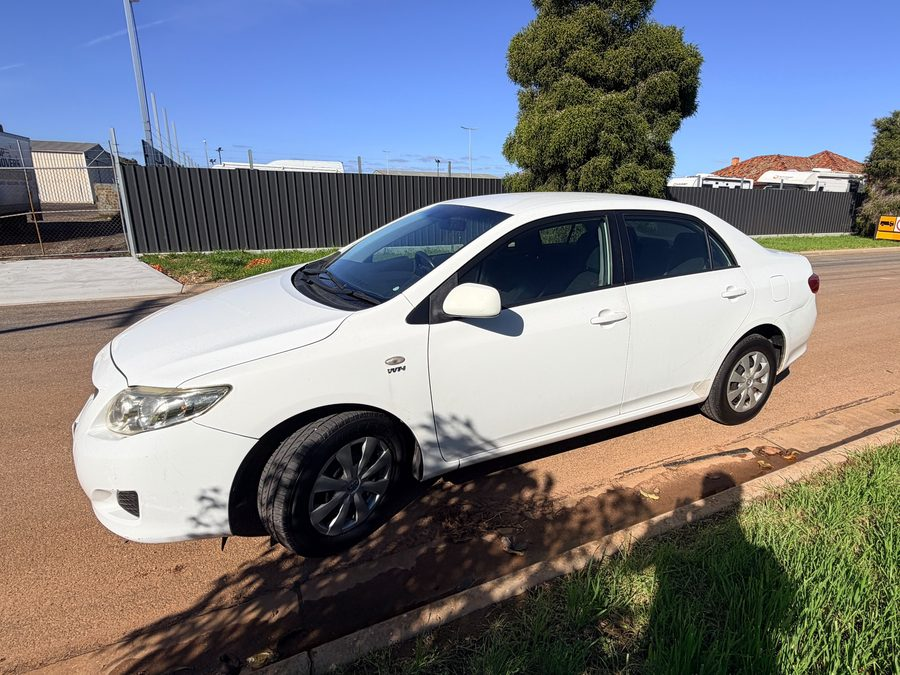
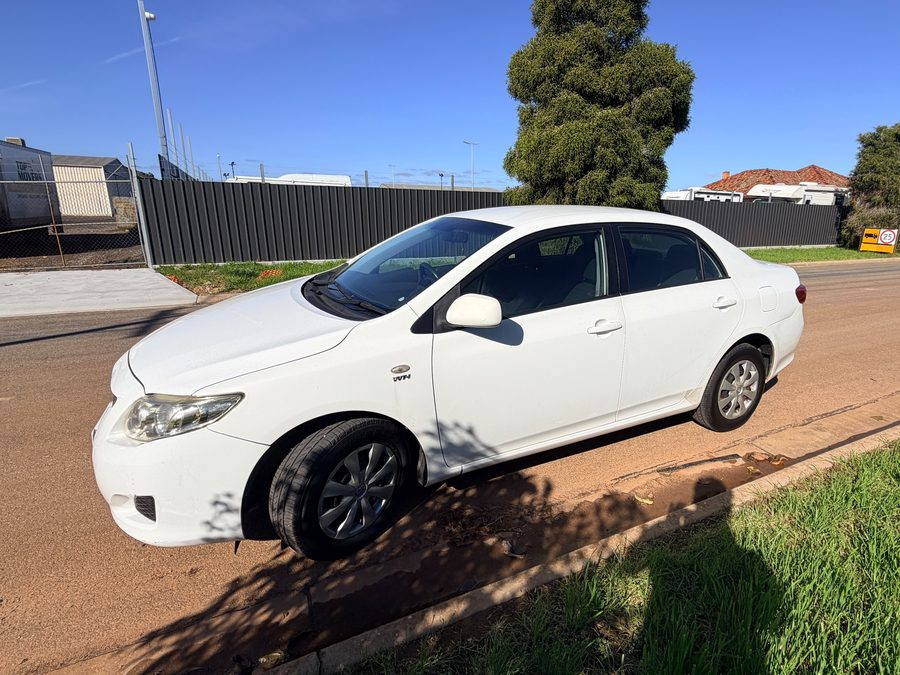
Hero (phone): original 3-line H1 back; smaller card, buttons and reviews chip; car photos zoomed out
- H1 restored to its original size/three-line wrap (owner's ruling)
- car card shrunk (214px, tiers 262/204, sideways on <=610px) and hero
  buttons + rating chip made smaller so everything still fits the real
  Safari viewport: spare 31/87/16/51px at 393x698, 440x790, 390x664, 375x548
- never below ~200px wide: at 182px the bar wraps and the details overflow
- home-stock photos rebuilt zoomed out: car bounding box + margin, smallest
  4:3 window; edge-to-edge cars get a mirrored, feathered soft extension
- Bumps assets to ?v=68 across all 12 pages

diff --git a/assets/css/styles.css b/assets/css/styles.css
@@ -1020,46 +1020,59 @@ section { padding: clamp(3.5rem, 7vw, 6rem) 0; }
 }
 /* Phone — sized for the REAL Safari viewport, not the device height. With Safari's toolbars showing,
    an iPhone 15/16 Pro gives ~698px, of which the site header takes ~89 and the fixed bottom bar ~61,
-   leaving ~547px for the whole hero. Everything below is tuned so the H1, the car card, BOTH hero
-   buttons and the Google-reviews chip are visible without scrolling (owner, 21 Sep). */
+   leaving ~547px for the whole hero. The H1 keeps its ORIGINAL three-line size (owner, 21 Sep — do not
+   shrink it); the room comes from a smaller car card and smaller buttons + reviews chip, so the H1,
+   the card, BOTH hero buttons and the Google-reviews chip are all visible without scrolling. */
 @media (max-width: 759px) {
-  .hero:has(.hstock) { padding: .85rem 0 .9rem; }
-  .hero:has(.hstock) h1 { font-size: clamp(1.5rem, 7.1vw, 1.95rem); line-height: 1.04; margin-bottom: .55rem; letter-spacing: .2px; }
+  .hero:has(.hstock) { padding: 1.15rem 0 .8rem; }
+  .hero:has(.hstock) h1 { margin-bottom: .7rem; }
   .hero:has(.hstock) h1 .text-red { white-space: nowrap; }      /* never split "ONE-" / "STOP" */
-  .hero:has(.hstock) .hero__actions { margin-top: .65rem; gap: .55rem; flex-wrap: nowrap; }
-  .hero:has(.hstock) .hero__actions .btn { flex: 1 1 0; justify-content: center; text-align: center; padding: .62rem .5rem; font-size: .9rem; white-space: nowrap; }
-  .hero:has(.hstock) .rating-chip { margin-top: .6rem; padding: .38rem .8rem; gap: .5rem; }
-  .hero:has(.hstock) .rating-chip .stars { font-size: .82rem; }
-  .hero:has(.hstock) .rating-chip strong { font-size: .98rem; }
-  .hero:has(.hstock) .rating-chip small { font-size: .74rem; }
-  .hero:has(.hstock) .rating-chip .divider { height: 16px; }
-  .hstock__bar { padding: .32rem .65rem; font-size: .62rem; }
-  .hstock__bar a { font-size: .62rem; }
-  .hstock__info { padding: .4rem .65rem .25rem; }
-  .hstock__name { font-size: .84rem; }
-  .hstock__price { font-size: 1.18rem; }
-  .hstock__cta { margin: .05rem .65rem .5rem; padding: .42rem .6rem; font-size: .74rem; }
-  .hstock__nav { width: 28px; height: 28px; }
+  .hero:has(.hstock) .hero__actions { margin-top: .6rem; gap: .5rem; flex-wrap: nowrap; }
+  .hero:has(.hstock) .hero__actions .btn { flex: 1 1 0; justify-content: center; text-align: center; padding: .5rem .4rem; font-size: .82rem; white-space: nowrap; }
+  .hero:has(.hstock) .rating-chip { margin-top: .5rem; padding: .28rem .7rem; gap: .45rem; }
+  .hero:has(.hstock) .rating-chip .stars { font-size: .72rem; letter-spacing: .5px; }
+  .hero:has(.hstock) .rating-chip strong { font-size: .86rem; }
+  .hero:has(.hstock) .rating-chip small { font-size: .68rem; }
+  .hero:has(.hstock) .rating-chip .divider { height: 14px; }
+  .hstock { --hs-w: 214px; }
+  .hstock__bar { padding: .28rem .55rem; font-size: .56rem; gap: .4rem; white-space: nowrap; }
+  .hstock__bar a { font-size: .56rem; }
+  .hstock__badge { font-size: .5rem; padding: .18rem .4rem; top: .35rem; left: .35rem; }
+  .hstock__info { padding: .35rem .55rem .2rem; gap: .4rem; }
+  .hstock__name { font-size: .78rem; }
+  .hstock__meta { font-size: .62rem; gap: .25rem; }
+  .hstock__meta em { font-size: .54rem; }
+  .hstock__price { font-size: 1.05rem; }
+  .hstock__cta { margin: .05rem .55rem .45rem; padding: .36rem .5rem; font-size: .7rem; }
+  .hstock__nav { width: 26px; height: 26px; }
+  .hstock__nav svg { width: 14px; height: 14px; }
+  .hstock__dots i { width: 4px; height: 4px; }
 }
 /* Height tiers — the card scales with the room the phone actually has. */
-@media (max-width: 759px) and (min-height: 760px) { .hstock { --hs-w: 304px; } }     /* Pro Max / Plus */
-@media (max-width: 759px) and (max-height: 690px) { .hstock { --hs-w: 248px; } }     /* iPhone 13/14 class */
-/* Short phones (iPhone SE / mini with toolbars showing, ~550px): a stacked card cannot fit, so the
-   card turns sideways — photo left, details + Enquire right — which is ~150px shorter. */
+@media (max-width: 759px) and (min-height: 760px) { .hstock { --hs-w: 262px; } }     /* Pro Max / Plus */
+/* iPhone 13/14 class (~664px). Do NOT go narrower than ~200px: at 182px the red bar wraps to two
+   lines and the details row overflows the card. Recover the height from spacing instead. */
+@media (max-width: 759px) and (max-height: 690px) {
+  .hstock { --hs-w: 204px; }
+  .hero:has(.hstock) { padding-top: .65rem; }
+  .hero:has(.hstock) h1 { margin-bottom: .5rem; }
+}
+/* Short phones (iPhone SE / mini with toolbars showing, ~550px): a stacked card cannot fit under a
+   three-line H1, so the card turns sideways — photo left, details + Enquire right. */
 @media (max-width: 759px) and (max-height: 610px) {
-  .hstock { --hs-w: 330px; --hs-ph: 108px; }
-  .hero:has(.hstock) h1 { font-size: clamp(1.35rem, 6.4vw, 1.7rem); margin-bottom: .45rem; }
-  .hstock__car { display: grid; grid-template-columns: 136px 1fr; grid-template-rows: 1fr auto; }
+  .hstock { --hs-w: 318px; --hs-ph: 96px; }
+  .hero:has(.hstock) { padding-top: .8rem; }
+  .hero:has(.hstock) h1 { font-size: 2.05rem; margin-bottom: .5rem; }
+  .hstock__car { display: grid; grid-template-columns: 128px 1fr; grid-template-rows: 1fr auto; }
   .hstock__media { grid-row: 1 / span 2; }
-  .hstock__media img { width: 136px; height: var(--hs-ph); aspect-ratio: auto; }
-  .hstock__info { flex-direction: column; align-items: flex-start; gap: .1rem; padding: .4rem .6rem .1rem; }
-  .hstock__cta { margin: .15rem .6rem .45rem; }
-  .hstock__badge { font-size: .5rem; padding: .18rem .38rem; top: .3rem; left: .3rem; }
-  .hstock__nav { width: 24px; height: 24px; }
-  .hstock__nav svg { width: 13px; height: 13px; }
-  .hstock__nav--prev { left: 4px; }
-  .hstock__nav--next { left: 108px; right: auto; }      /* both arrows sit on the photo, clear of the price + button */
-  .hstock__dots { right: auto; width: 136px; top: calc(var(--hs-ph) - 12px); }
+  .hstock__media img { width: 128px; height: var(--hs-ph); aspect-ratio: auto; }
+  .hstock__info { flex-direction: column; align-items: flex-start; gap: .05rem; padding: .3rem .55rem .05rem; }
+  .hstock__cta { margin: .1rem .55rem .4rem; }
+  .hstock__nav { width: 22px; height: 22px; }
+  .hstock__nav svg { width: 12px; height: 12px; }
+  .hstock__nav--prev { left: 3px; }
+  .hstock__nav--next { left: 103px; right: auto; }      /* both arrows sit on the photo, clear of the price + button */
+  .hstock__dots { right: auto; width: 128px; top: calc(var(--hs-ph) - 10px); }
 }
 /* ---------- Frosted-glass hero buttons (owner, 21 Sep) ----------
    Scoped to the hero only — these sit over the photograph, so the blur has something to frost.

diff --git a/detailings.html b/detailings.html
@@ -13,7 +13,7 @@
 <link rel="preconnect" href="https://fonts.googleapis.com" />
 <link rel="preconnect" href="https://fonts.gstatic.com" crossorigin />
 <link href="https://fonts.googleapis.com/css2?family=Anton&family=Inter:wght@400;500;600;700;800&display=swap" rel="stylesheet" />
-<link rel="stylesheet" href="assets/css/styles.css?v=67" />
+<link rel="stylesheet" href="assets/css/styles.css?v=68" />
 <script type="application/ld+json">
 {
   "@context": "https://schema.org",
@@ -320,6 +320,6 @@
 
 <a class="wa-float" href="https://wa.me/61432520230?text=Hi%20Jitty%2C%20I%20would%20like%20to%20book%20my%20car%20in." aria-label="Message us on WhatsApp"><svg viewBox="0 0 24 24" fill="currentColor"><path d="M12 2a10 10 0 0 0-8.5 15.3L2 22l4.8-1.5A10 10 0 1 0 12 2zm0 18a8 8 0 0 1-4.1-1.1l-.3-.2-2.8.9.9-2.7-.2-.3A8 8 0 1 1 12 20z"/></svg></a>
 <nav class="mobile-bar" aria-label="Quick actions"><a class="call" href="tel:+61432520230"><svg viewBox="0 0 24 24" fill="none" stroke="currentColor" stroke-width="2"><path d="M22 16.92v3a2 2 0 0 1-2.18 2 19.79 19.79 0 0 1-8.63-3.07 19.5 19.5 0 0 1-6-6 19.79 19.79 0 0 1-3.07-8.67A2 2 0 0 1 4.11 2h3a2 2 0 0 1 2 1.72c.13.96.36 1.9.7 2.81a2 2 0 0 1-.45 2.11L8.09 9.91a16 16 0 0 0 6 6l1.27-1.27a2 2 0 0 1 2.11-.45c.9.34 1.85.57 2.81.7A2 2 0 0 1 22 16.92z"/></svg>Call Now</a><a href="https://wa.me/61432520230?text=Hi%20Jitty%2C%20I%20would%20like%20to%20book%20my%20car%20in."><svg viewBox="0 0 24 24" fill="currentColor"><path d="M12 2a10 10 0 0 0-8.5 15.3L2 22l4.8-1.5A10 10 0 1 0 12 2z"/></svg>WhatsApp</a><a class="book" href="https://wa.me/61432520230?text=Hi%20Jitty%2C%20I%20would%20like%20to%20book%20my%20car%20in."><svg viewBox="0 0 24 24" fill="none" stroke="currentColor" stroke-width="2"><rect x="3" y="4" width="18" height="18" rx="2"/><path d="M16 2v4M8 2v4M3 10h18"/></svg>Book</a></nav>
-<script src="assets/js/main.js?v=67"></script>
+<script src="assets/js/main.js?v=68"></script>
 </body>
 </html>

diff --git a/paint-panel.html b/paint-panel.html
@@ -13,7 +13,7 @@
 <link rel="preconnect" href="https://fonts.googleapis.com" />
 <link rel="preconnect" href="https://fonts.gstatic.com" crossorigin />
 <link href="https://fonts.googleapis.com/css2?family=Anton&family=Inter:wght@400;500;600;700;800&display=swap" rel="stylesheet" />
-<link rel="stylesheet" href="assets/css/styles.css?v=67" />
+<link rel="stylesheet" href="assets/css/styles.css?v=68" />
 <script type="application/ld+json">
 {
   "@context": "https://schema.org",
@@ -300,6 +300,6 @@
 
 <a class="wa-float" href="https://wa.me/61432520230?text=Hi%20Jitty%2C%20I%20would%20like%20to%20book%20my%20car%20in." aria-label="Message us on WhatsApp"><svg viewBox="0 0 24 24" fill="currentColor"><path d="M12 2a10 10 0 0 0-8.5 15.3L2 22l4.8-1.5A10 10 0 1 0 12 2zm0 18a8 8 0 0 1-4.1-1.1l-.3-.2-2.8.9.9-2.7-.2-.3A8 8 0 1 1 12 20z"/></svg></a>
 <nav class="mobile-bar" aria-label="Quick actions"><a class="call" href="tel:+61432520230"><svg viewBox="0 0 24 24" fill="none" stroke="currentColor" stroke-width="2"><path d="M22 16.92v3a2 2 0 0 1-2.18 2 19.79 19.79 0 0 1-8.63-3.07 19.5 19.5 0 0 1-6-6 19.79 19.79 0 0 1-3.07-8.67A2 2 0 0 1 4.11 2h3a2 2 0 0 1 2 1.72c.13.96.36 1.9.7 2.81a2 2 0 0 1-.45 2.11L8.09 9.91a16 16 0 0 0 6 6l1.27-1.27a2 2 0 0 1 2.11-.45c.9.34 1.85.57 2.81.7A2 2 0 0 1 22 16.92z"/></svg>Call Now</a><a href="https://wa.me/61432520230?text=Hi%20Jitty%2C%20I%20would%20like%20to%20book%20my%20car%20in."><svg viewBox="0 0 24 24" fill="currentColor"><path d="M12 2a10 10 0 0 0-8.5 15.3L2 22l4.8-1.5A10 10 0 1 0 12 2z"/></svg>WhatsApp</a><a class="book" href="https://wa.me/61432520230?text=Hi%20Jitty%2C%20I%20would%20like%20to%20book%20my%20car%20in."><svg viewBox="0 0 24 24" fill="none" stroke="currentColor" stroke-width="2"><rect x="3" y="4" width="18" height="18" rx="2"/><path d="M16 2v4M8 2v4M3 10h18"/></svg>Book</a></nav>
-<script src="assets/js/main.js?v=67"></script>
+<script src="assets/js/main.js?v=68"></script>
 </body>
 </html>

diff --git a/services.html b/services.html
@@ -13,7 +13,7 @@
 <link rel="preconnect" href="https://fonts.googleapis.com" />
 <link rel="preconnect" href="https://fonts.gstatic.com" crossorigin />
 <link href="https://fonts.googleapis.com/css2?family=Anton&family=Inter:wght@400;500;600;700;800&display=swap" rel="stylesheet" />
-<link rel="stylesheet" href="assets/css/styles.css?v=67" />
+<link rel="stylesheet" href="assets/css/styles.css?v=68" />
 <script type="application/ld+json">
 {
   "@context": "https://schema.org",
@@ -527,6 +527,6 @@
 
 <a class="wa-float" href="https://wa.me/61432520230?text=Hi%20Jitty%2C%20I%20would%20like%20to%20book%20my%20car%20in." aria-label="Message us on WhatsApp"><svg viewBox="0 0 24 24" fill="currentColor"><path d="M12 2a10 10 0 0 0-8.5 15.3L2 22l4.8-1.5A10 10 0 1 0 12 2zm0 18a8 8 0 0 1-4.1-1.1l-.3-.2-2.8.9.9-2.7-.2-.3A8 8 0 1 1 12 20z"/></svg></a>
 <nav class="mobile-bar" aria-label="Quick actions"><a class="call" href="tel:+61432520230"><svg viewBox="0 0 24 24" fill="none" stroke="currentColor" stroke-width="2"><path d="M22 16.92v3a2 2 0 0 1-2.18 2 19.79 19.79 0 0 1-8.63-3.07 19.5 19.5 0 0 1-6-6 19.79 19.79 0 0 1-3.07-8.67A2 2 0 0 1 4.11 2h3a2 2 0 0 1 2 1.72c.13.96.36 1.9.7 2.81a2 2 0 0 1-.45 2.11L8.09 9.91a16 16 0 0 0 6 6l1.27-1.27a2 2 0 0 1 2.11-.45c.9.34 1.85.57 2.81.7A2 2 0 0 1 22 16.92z"/></svg>Call Now</a><a href="https://wa.me/61432520230?text=Hi%20Jitty%2C%20I%20would%20like%20to%20book%20my%20car%20in."><svg viewBox="0 0 24 24" fill="currentColor"><path d="M12 2a10 10 0 0 0-8.5 15.3L2 22l4.8-1.5A10 10 0 1 0 12 2z"/></svg>WhatsApp</a><a class="book" href="https://wa.me/61432520230?text=Hi%20Jitty%2C%20I%20would%20like%20to%20book%20my%20car%20in."><svg viewBox="0 0 24 24" fill="none" stroke="currentColor" stroke-width="2"><rect x="3" y="4" width="18" height="18" rx="2"/><path d="M16 2v4M8 2v4M3 10h18"/></svg>Book</a></nav>
-<script src="assets/js/main.js?v=67"></script>
+<script src="assets/js/main.js?v=68"></script>
 </body>
 </html>

diff --git a/used-cars.html b/used-cars.html
@@ -13,7 +13,7 @@
 <link rel="preconnect" href="https://fonts.googleapis.com" />
 <link rel="preconnect" href="https://fonts.gstatic.com" crossorigin />
 <link href="https://fonts.googleapis.com/css2?family=Anton&family=Inter:wght@400;500;600;700;800&display=swap" rel="stylesheet" />
-<link rel="stylesheet" href="assets/css/styles.css?v=67" />
+<link rel="stylesheet" href="assets/css/styles.css?v=68" />
 <script type="application/ld+json">
 {
   "@context": "https://schema.org",
@@ -558,6 +558,6 @@
 
 <a class="wa-float" href="https://wa.me/61432520230?text=Hi%20Jitty%2C%20I%20would%20like%20to%20book%20my%20car%20in." aria-label="Message us on WhatsApp"><svg viewBox="0 0 24 24" fill="currentColor"><path d="M12 2a10 10 0 0 0-8.5 15.3L2 22l4.8-1.5A10 10 0 1 0 12 2zm0 18a8 8 0 0 1-4.1-1.1l-.3-.2-2.8.9.9-2.7-.2-.3A8 8 0 1 1 12 20z"/></svg></a>
 <nav class="mobile-bar" aria-label="Quick actions"><a class="call" href="tel:+61432520230"><svg viewBox="0 0 24 24" fill="none" stroke="currentColor" stroke-width="2"><path d="M22 16.92v3a2 2 0 0 1-2.18 2 19.79 19.79 0 0 1-8.63-3.07 19.5 19.5 0 0 1-6-6 19.79 19.79 0 0 1-3.07-8.67A2 2 0 0 1 4.11 2h3a2 2 0 0 1 2 1.72c.13.96.36 1.9.7 2.81a2 2 0 0 1-.45 2.11L8.09 9.91a16 16 0 0 0 6 6l1.27-1.27a2 2 0 0 1 2.11-.45c.9.34 1.85.57 2.81.7A2 2 0 0 1 22 16.92z"/></svg>Call Now</a><a href="https://wa.me/61432520230?text=Hi%20Jitty%2C%20I%20would%20like%20to%20book%20my%20car%20in."><svg viewBox="0 0 24 24" fill="currentColor"><path d="M12 2a10 10 0 0 0-8.5 15.3L2 22l4.8-1.5A10 10 0 1 0 12 2z"/></svg>WhatsApp</a><a class="book" href="https://wa.me/61432520230?text=Hi%20Jitty%2C%20I%20would%20like%20to%20book%20my%20car%20in."><svg viewBox="0 0 24 24" fill="none" stroke="currentColor" stroke-width="2"><rect x="3" y="4" width="18" height="18" rx="2"/><path d="M16 2v4M8 2v4M3 10h18"/></svg>Book</a></nav>
-<script src="assets/js/main.js?v=67"></script>
+<script src="assets/js/main.js?v=68"></script>
 </body>
 </html>

diff --git a/services/4wd-service.html b/services/4wd-service.html
@@ -13,7 +13,7 @@
 <link rel="preconnect" href="https://fonts.googleapis.com" />
 <link rel="preconnect" href="https://fonts.gstatic.com" crossorigin />
 <link href="https://fonts.googleapis.com/css2?family=Anton&family=Inter:wght@400;500;600;700;800&display=swap" rel="stylesheet" />
-<link rel="stylesheet" href="../assets/css/styles.css?v=67" />
+<link rel="stylesheet" href="../assets/css/styles.css?v=68" />
 <script type="application/ld+json">
 {
   "@context":"https://schema.org","@type":"Service",
@@ -104,6 +104,6 @@
 </footer>
 <a class="wa-float" href="https://wa.me/61432520230?text=Hi%20Jitty%2C%20I%20would%20like%20to%20book%20my%20car%20in." aria-label="Message us on WhatsApp"><svg viewBox="0 0 24 24" fill="currentColor"><path d="M12 2a10 10 0 0 0-8.5 15.3L2 22l4.8-1.5A10 10 0 1 0 12 2zm0 18a8 8 0 0 1-4.1-1.1l-.3-.2-2.8.9.9-2.7-.2-.3A8 8 0 1 1 12 20z"/></svg></a>
 <nav class="mobile-bar" aria-label="Quick actions"><a class="call" href="tel:+61432520230"><svg viewBox="0 0 24 24" fill="none" stroke="currentColor" stroke-width="2"><path d="M22 16.92v3a2 2 0 0 1-2.18 2 19.79 19.79 0 0 1-8.63-3.07 19.5 19.5 0 0 1-6-6 19.79 19.79 0 0 1-3.07-8.67A2 2 0 0 1 4.11 2h3a2 2 0 0 1 2 1.72c.13.96.36 1.9.7 2.81a2 2 0 0 1-.45 2.11L8.09 9.91a16 16 0 0 0 6 6l1.27-1.27a2 2 0 0 1 2.11-.45c.9.34 1.85.57 2.81.7A2 2 0 0 1 22 16.92z"/></svg>Call</a><a href="https://wa.me/61432520230?text=Hi%20Jitty%2C%20I%20would%20like%20to%20book%20my%20car%20in."><svg viewBox="0 0 24 24" fill="currentColor"><path d="M12 2a10 10 0 0 0-8.5 15.3L2 22l4.8-1.5A10 10 0 1 0 12 2z"/></svg>WhatsApp</a><a class="book" href="../contact.html#book"><svg viewBox="0 0 24 24" fill="none" stroke="currentColor" stroke-width="2"><rect x="3" y="4" width="18" height="18" rx="2"/><path d="M16 2v4M8 2v4M3 10h18"/></svg>Book</a></nav>
-<script src="../assets/js/main.js?v=67"></script>
+<script src="../assets/js/main.js?v=68"></script>
 </body>
 </html>

diff --git a/services/air-conditioning.html b/services/air-conditioning.html
@@ -13,7 +13,7 @@
 <link rel="preconnect" href="https://fonts.googleapis.com" />
 <link rel="preconnect" href="https://fonts.gstatic.com" crossorigin />
 <link href="https://fonts.googleapis.com/css2?family=Anton&family=Inter:wght@400;500;600;700;800&display=swap" rel="stylesheet" />
-<link rel="stylesheet" href="../assets/css/styles.css?v=67" />
+<link rel="stylesheet" href="../assets/css/styles.css?v=68" />
 <script type="application/ld+json">
 {
   "@context":"https://schema.org","@type":"Service",
@@ -104,6 +104,6 @@
 </footer>
 <a class="wa-float" href="https://wa.me/61432520230?text=Hi%20Jitty%2C%20I%20would%20like%20to%20book%20my%20car%20in." aria-label="Message us on WhatsApp"><svg viewBox="0 0 24 24" fill="currentColor"><path d="M12 2a10 10 0 0 0-8.5 15.3L2 22l4.8-1.5A10 10 0 1 0 12 2zm0 18a8 8 0 0 1-4.1-1.1l-.3-.2-2.8.9.9-2.7-.2-.3A8 8 0 1 1 12 20z"/></svg></a>
 <nav class="mobile-bar" aria-label="Quick actions"><a class="call" href="tel:+61432520230"><svg viewBox="0 0 24 24" fill="none" stroke="currentColor" stroke-width="2"><path d="M22 16.92v3a2 2 0 0 1-2.18 2 19.79 19.79 0 0 1-8.63-3.07 19.5 19.5 0 0 1-6-6 19.79 19.79 0 0 1-3.07-8.67A2 2 0 0 1 4.11 2h3a2 2 0 0 1 2 1.72c.13.96.36 1.9.7 2.81a2 2 0 0 1-.45 2.11L8.09 9.91a16 16 0 0 0 6 6l1.27-1.27a2 2 0 0 1 2.11-.45c.9.34 1.85.57 2.81.7A2 2 0 0 1 22 16.92z"/></svg>Call</a><a href="https://wa.me/61432520230?text=Hi%20Jitty%2C%20I%20would%20like%20to%20book%20my%20car%20in."><svg viewBox="0 0 24 24" fill="currentColor"><path d="M12 2a10 10 0 0 0-8.5 15.3L2 22l4.8-1.5A10 10 0 1 0 12 2z"/></svg>WhatsApp</a><a class="book" href="../contact.html#book"><svg viewBox="0 0 24 24" fill="none" stroke="currentColor" stroke-width="2"><rect x="3" y="4" width="18" height="18" rx="2"/><path d="M16 2v4M8 2v4M3 10h18"/></svg>Book</a></nav>
-<script src="../assets/js/main.js?v=67"></script>
+<script src="../assets/js/main.js?v=68"></script>
 </body>
 </html>

diff --git a/services/brakes-suspension.html b/services/brakes-suspension.html
@@ -13,7 +13,7 @@
 <link rel="preconnect" href="https://fonts.googleapis.com" />
 <link rel="preconnect" href="https://fonts.gstatic.com" crossorigin />
 <link href="https://fonts.googleapis.com/css2?family=Anton&family=Inter:wght@400;500;600;700;800&display=swap" rel="stylesheet" />
-<link rel="stylesheet" href="../assets/css/styles.css?v=67" />
+<link rel="stylesheet" href="../assets/css/styles.css?v=68" />
 <script type="application/ld+json">
 {
   "@context":"https://schema.org","@type":"Service",
@@ -104,6 +104,6 @@
 </footer>
 <a class="wa-float" href="https://wa.me/61432520230?text=Hi%20Jitty%2C%20I%20would%20like%20to%20book%20my%20car%20in." aria-label="Message us on WhatsApp"><svg viewBox="0 0 24 24" fill="currentColor"><path d="M12 2a10 10 0 0 0-8.5 15.3L2 22l4.8-1.5A10 10 0 1 0 12 2zm0 18a8 8 0 0 1-4.1-1.1l-.3-.2-2.8.9.9-2.7-.2-.3A8 8 0 1 1 12 20z"/></svg></a>
 <nav class="mobile-bar" aria-label="Quick actions"><a class="call" href="tel:+61432520230"><svg viewBox="0 0 24 24" fill="none" stroke="currentColor" stroke-width="2"><path d="M22 16.92v3a2 2 0 0 1-2.18 2 19.79 19.79 0 0 1-8.63-3.07 19.5 19.5 0 0 1-6-6 19.79 19.79 0 0 1-3.07-8.67A2 2 0 0 1 4.11 2h3a2 2 0 0 1 2 1.72c.13.96.36 1.9.7 2.81a2 2 0 0 1-.45 2.11L8.09 9.91a16 16 0 0 0 6 6l1.27-1.27a2 2 0 0 1 2.11-.45c.9.34 1.85.57 2.81.7A2 2 0 0 1 22 16.92z"/></svg>Call</a><a href="https://wa.me/61432520230?text=Hi%20Jitty%2C%20I%20would%20like%20to%20book%20my%20car%20in."><svg viewBox="0 0 24 24" fill="currentColor"><path d="M12 2a10 10 0 0 0-8.5 15.3L2 22l4.8-1.5A10 10 0 1 0 12 2z"/></svg>WhatsApp</a><a class="book" href="../contact.html#book"><svg viewBox="0 0 24 24" fill="none" stroke="currentColor" stroke-width="2"><rect x="3" y="4" width="18" height="18" rx="2"/><path d="M16 2v4M8 2v4M3 10h18"/></svg>Book</a></nav>
-<script src="../assets/js/main.js?v=67"></script>
+<script src="../assets/js/main.js?v=68"></script>
 </body>
 </html>

diff --git a/services/diagnostics-repairs.html b/services/diagnostics-repairs.html
@@ -13,7 +13,7 @@
 <link rel="preconnect" href="https://fonts.googleapis.com" />
 <link rel="preconnect" href="https://fonts.gstatic.com" crossorigin />
 <link href="https://fonts.googleapis.com/css2?family=Anton&family=Inter:wght@400;500;600;700;800&display=swap" rel="stylesheet" />
-<link rel="stylesheet" href="../assets/css/styles.css?v=67" />
+<link rel="stylesheet" href="../assets/css/styles.css?v=68" />
 <script type="application/ld+json">
 {
   "@context":"https://schema.org","@type":"Service",
@@ -104,6 +104,6 @@
 </footer>
 <a class="wa-float" href="https://wa.me/61432520230?text=Hi%20Jitty%2C%20I%20would%20like%20to%20book%20my%20car%20in." aria-label="Message us on WhatsApp"><svg viewBox="0 0 24 24" fill="currentColor"><path d="M12 2a10 10 0 0 0-8.5 15.3L2 22l4.8-1.5A10 10 0 1 0 12 2zm0 18a8 8 0 0 1-4.1-1.1l-.3-.2-2.8.9.9-2.7-.2-.3A8 8 0 1 1 12 20z"/></svg></a>
 <nav class="mobile-bar" aria-label="Quick actions"><a class="call" href="tel:+61432520230"><svg viewBox="0 0 24 24" fill="none" stroke="currentColor" stroke-width="2"><path d="M22 16.92v3a2 2 0 0 1-2.18 2 19.79 19.79 0 0 1-8.63-3.07 19.5 19.5 0 0 1-6-6 19.79 19.79 0 0 1-3.07-8.67A2 2 0 0 1 4.11 2h3a2 2 0 0 1 2 1.72c.13.96.36 1.9.7 2.81a2 2 0 0 1-.45 2.11L8.09 9.91a16 16 0 0 0 6 6l1.27-1.27a2 2 0 0 1 2.11-.45c.9.34 1.85.57 2.81.7A2 2 0 0 1 22 16.92z"/></svg>Call</a><a href="https://wa.me/61432520230?text=Hi%20Jitty%2C%20I%20would%20like%20to%20book%20my%20car%20in."><svg viewBox="0 0 24 24" fill="currentColor"><path d="M12 2a10 10 0 0 0-8.5 15.3L2 22l4.8-1.5A10 10 0 1 0 12 2z"/></svg>WhatsApp</a><a class="book" href="../contact.html#book"><svg viewBox="0 0 24 24" fill="none" stroke="currentColor" stroke-width="2"><rect x="3" y="4" width="18" height="18" rx="2"/><path d="M16 2v4M8 2v4M3 10h18"/></svg>Book</a></nav>
-<script src="../assets/js/main.js?v=67"></script>
+<script src="../assets/js/main.js?v=68"></script>
 </body>
 </html>

diff --git a/services/diesel-dpf.html b/services/diesel-dpf.html
@@ -13,7 +13,7 @@
 <link rel="preconnect" href="https://fonts.googleapis.com" />
 <link rel="preconnect" href="https://fonts.gstatic.com" crossorigin />
 <link href="https://fonts.googleapis.com/css2?family=Anton&family=Inter:wght@400;500;600;700;800&display=swap" rel="stylesheet" />
-<link rel="stylesheet" href="../assets/css/styles.css?v=67" />
+<link rel="stylesheet" href="../assets/css/styles.css?v=68" />
 <script type="application/ld+json">
 {
   "@context":"https://schema.org","@type":"Service",
@@ -104,6 +104,6 @@
 </footer>
 <a class="wa-float" href="https://wa.me/61432520230?text=Hi%20Jitty%2C%20I%20would%20like%20to%20book%20my%20car%20in." aria-label="Message us on WhatsApp"><svg viewBox="0 0 24 24" fill="currentColor"><path d="M12 2a10 10 0 0 0-8.5 15.3L2 22l4.8-1.5A10 10 0 1 0 12 2zm0 18a8 8 0 0 1-4.1-1.1l-.3-.2-2.8.9.9-2.7-.2-.3A8 8 0 1 1 12 20z"/></svg></a>
 <nav class="mobile-bar" aria-label="Quick actions"><a class="call" href="tel:+61432520230"><svg viewBox="0 0 24 24" fill="none" stroke="currentColor" stroke-width="2"><path d="M22 16.92v3a2 2 0 0 1-2.18 2 19.79 19.79 0 0 1-8.63-3.07 19.5 19.5 0 0 1-6-6 19.79 19.79 0 0 1-3.07-8.67A2 2 0 0 1 4.11 2h3a2 2 0 0 1 2 1.72c.13.96.36 1.9.7 2.81a2 2 0 0 1-.45 2.11L8.09 9.91a16 16 0 0 0 6 6l1.27-1.27a2 2 0 0 1 2.11-.45c.9.34 1.85.57 2.81.7A2 2 0 0 1 22 16.92z"/></svg>Call</a><a href="https://wa.me/61432520230?text=Hi%20Jitty%2C%20I%20would%20like%20to%20book%20my%20car%20in."><svg viewBox="0 0 24 24" fill="currentColor"><path d="M12 2a10 10 0 0 0-8.5 15.3L2 22l4.8-1.5A10 10 0 1 0 12 2z"/></svg>WhatsApp</a><a class="book" href="../contact.html#book"><svg viewBox="0 0 24 24" fill="none" stroke="currentColor" stroke-width="2"><rect x="3" y="4" width="18" height="18" rx="2"/><path d="M16 2v4M8 2v4M3 10h18"/></svg>Book</a></nav>
-<script src="../assets/js/main.js?v=67"></script>
+<script src="../assets/js/main.js?v=68"></script>
 </body>
 </html>

diff --git a/services/logbook-servicing.html b/services/logbook-servicing.html
@@ -13,7 +13,7 @@
 <link rel="preconnect" href="https://fonts.googleapis.com" />
 <link rel="preconnect" href="https://fonts.gstatic.com" crossorigin />
 <link href="https://fonts.googleapis.com/css2?family=Anton&family=Inter:wght@400;500;600;700;800&display=swap" rel="stylesheet" />
-<link rel="stylesheet" href="../assets/css/styles.css?v=67" />
+<link rel="stylesheet" href="../assets/css/styles.css?v=68" />
 <script type="application/ld+json">
 {
   "@context":"https://schema.org","@type":"Service",
@@ -104,6 +104,6 @@
 </footer>
 <a class="wa-float" href="https://wa.me/61432520230?text=Hi%20Jitty%2C%20I%20would%20like%20to%20book%20my%20car%20in." aria-label="Message us on WhatsApp"><svg viewBox="0 0 24 24" fill="currentColor"><path d="M12 2a10 10 0 0 0-8.5 15.3L2 22l4.8-1.5A10 10 0 1 0 12 2zm0 18a8 8 0 0 1-4.1-1.1l-.3-.2-2.8.9.9-2.7-.2-.3A8 8 0 1 1 12 20z"/></svg></a>
 <nav class="mobile-bar" aria-label="Quick actions"><a class="call" href="tel:+61432520230"><svg viewBox="0 0 24 24" fill="none" stroke="currentColor" stroke-width="2"><path d="M22 16.92v3a2 2 0 0 1-2.18 2 19.79 19.79 0 0 1-8.63-3.07 19.5 19.5 0 0 1-6-6 19.79 19.79 0 0 1-3.07-8.67A2 2 0 0 1 4.11 2h3a2 2 0 0 1 2 1.72c.13.96.36 1.9.7 2.81a2 2 0 0 1-.45 2.11L8.09 9.91a16 16 0 0 0 6 6l1.27-1.27a2 2 0 0 1 2.11-.45c.9.34 1.85.57 2.81.7A2 2 0 0 1 22 16.92z"/></svg>Call</a><a href="https://wa.me/61432520230?text=Hi%20Jitty%2C%20I%20would%20like%20to%20book%20my%20car%20in."><svg viewBox="0 0 24 24" fill="currentColor"><path d="M12 2a10 10 0 0 0-8.5 15.3L2 22l4.8-1.5A10 10 0 1 0 12 2z"/></svg>WhatsApp</a><a class="book" href="../contact.html#book"><svg viewBox="0 0 24 24" fill="none" stroke="currentColor" stroke-width="2"><rect x="3" y="4" width="18" height="18" rx="2"/><path d="M16 2v4M8 2v4M3 10h18"/></svg>Book</a></nav>
-<script src="../assets/js/main.js?v=67"></script>
+<script src="../assets/js/main.js?v=68"></script>
 </body>
 </html>

diff --git a/contact.html b/contact.html
@@ -13,7 +13,7 @@
 <link rel="preconnect" href="https://fonts.googleapis.com" />
 <link rel="preconnect" href="https://fonts.gstatic.com" crossorigin />
 <link href="https://fonts.googleapis.com/css2?family=Anton&family=Inter:wght@400;500;600;700;800&display=swap" rel="stylesheet" />
-<link rel="stylesheet" href="assets/css/styles.css?v=67" />
+<link rel="stylesheet" href="assets/css/styles.css?v=68" />
 <script type="application/ld+json">
 {
   "@context": "https://schema.org",
@@ -324,6 +324,6 @@
 
 <a class="wa-float" href="https://wa.me/61432520230?text=Hi%20Jitty%2C%20I%20would%20like%20to%20book%20my%20car%20in." aria-label="Message us on WhatsApp"><svg viewBox="0 0 24 24" fill="currentColor"><path d="M12 2a10 10 0 0 0-8.5 15.3L2 22l4.8-1.5A10 10 0 1 0 12 2zm0 18a8 8 0 0 1-4.1-1.1l-.3-.2-2.8.9.9-2.7-.2-.3A8 8 0 1 1 12 20z"/></svg></a>
 <nav class="mobile-bar" aria-label="Quick actions"><a class="call" href="tel:+61432520230"><svg viewBox="0 0 24 24" fill="none" stroke="currentColor" stroke-width="2"><path d="M22 16.92v3a2 2 0 0 1-2.18 2 19.79 19.79 0 0 1-8.63-3.07 19.5 19.5 0 0 1-6-6 19.79 19.79 0 0 1-3.07-8.67A2 2 0 0 1 4.11 2h3a2 2 0 0 1 2 1.72c.13.96.36 1.9.7 2.81a2 2 0 0 1-.45 2.11L8.09 9.91a16 16 0 0 0 6 6l1.27-1.27a2 2 0 0 1 2.11-.45c.9.34 1.85.57 2.81.7A2 2 0 0 1 22 16.92z"/></svg>Call Now</a><a href="https://wa.me/61432520230?text=Hi%20Jitty%2C%20I%20would%20like%20to%20book%20my%20car%20in."><svg viewBox="0 0 24 24" fill="currentColor"><path d="M12 2a10 10 0 0 0-8.5 15.3L2 22l4.8-1.5A10 10 0 1 0 12 2z"/></svg>WhatsApp</a><a class="book" href="#book"><svg viewBox="0 0 24 24" fill="none" stroke="currentColor" stroke-width="2"><rect x="3" y="4" width="18" height="18" rx="2"/><path d="M16 2v4M8 2v4M3 10h18"/></svg>Book</a></nav>
-<script src="assets/js/main.js?v=67"></script>
+<script src="assets/js/main.js?v=68"></script>
 </body>
 </html>
